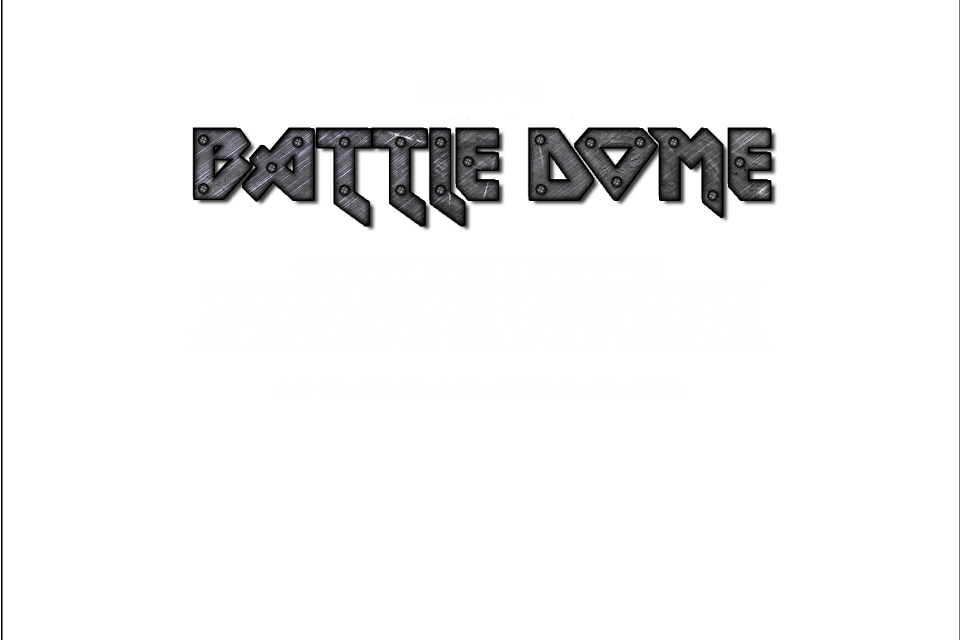
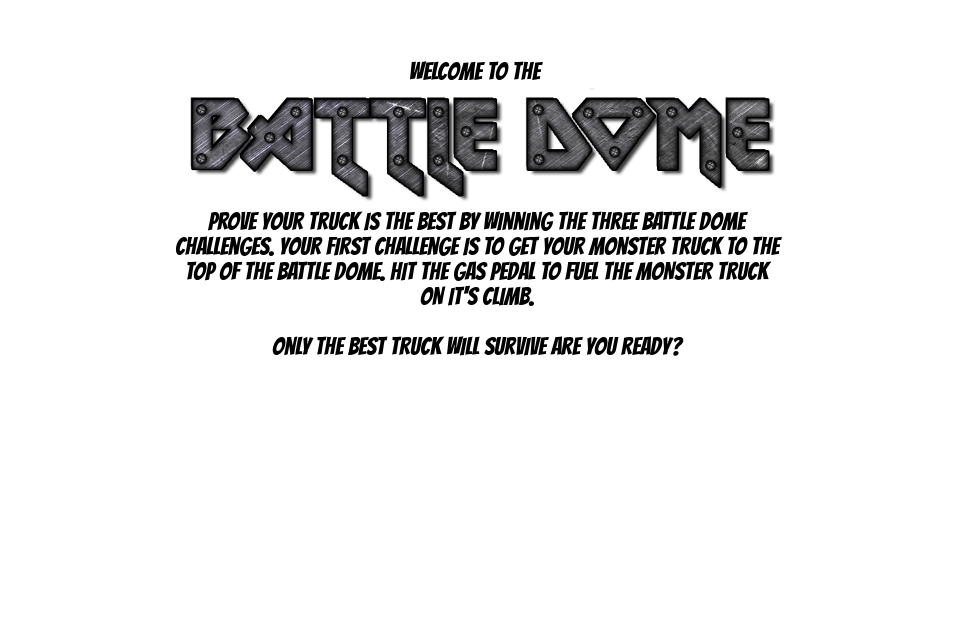
Connecting Commit
All levels connected and animations playing.

Changed region(s): [[0.1875, 0.0938, 0.8125, 0.5625]]

diff --git a/js/states/Game.js b/js/states/Game.js
@@ -9,30 +9,46 @@ MonsterTruck.GameState = {
         this.jumping = false;
         this.disable = false;
         //Adds horn sound
-        //MonsterTruck.audio.volume = 0.3;
+        MonsterTruck.audio.volume = 0.3;
         var sound = this.add.audio('horn');
         sound.play();
         sound.onStop.add(function()
         {
-            //MonsterTruck.audio.volume = 1;
+            MonsterTruck.audio.volume = 1;
         }, this);
         //Get variable values
         this.allData = JSON.parse(this.game.cache.getText('monsterData'));
-        this.startBattleOne();
+        if(MonsterTruck.Level === 0)
+        {
+            this.startBattleOne();
+        }
+        else if(MonsterTruck.Level === 1)
+        {
+            this.startBattleTwo();
+        }
+        else if(MonsterTruck.Level === 2)
+        {
+            this.startBattleThree();
+        }
+        else
+        {
+            this.state.start('End');
+        }
     },
     startBattleOne: function()
     {
+        this.battleArena = this.add.sprite(-1920, 0, 'battleArenaHorizontal');
         //Boolean to track whether the climb has begun or not
         this.start = true;
         //Hill to climb
         this.add.image(0, 0, 'hill');
         this.physics.startSystem(Phaser.Physics.ARCADE);
         //Truck to climb up
-        this.sprite = this.add.sprite(250, 420, 'player');
-        //this.sprite.animations.add('walk');
+        this.sprite = this.add.sprite(100, 550, 'playerRight');
+        this.sprite.animations.add('walk');
         
-        //this.sprite.animations.play('walk', 5, true);
-        this.sprite.scale.setTo(-0.3, 0.3);
+        this.sprite.animations.play('walk', 5, true);
+        this.sprite.scale.setTo(0.3, 0.3);
         
         this.physics.enable(this.sprite, Phaser.Physics.ARCADE);
 	    this.sprite.body.checkCollision.up = false;
@@ -65,11 +81,11 @@ MonsterTruck.GameState = {
             this.alertTween.resume();
             this.start = false;
             //Reverse velocity so truck 'falls downhill'
-            this.sprite.body.velocity.x=-242;
-            this.sprite.body.velocity.y=200;
+            this.sprite.body.velocity.x=-30.25;
+            this.sprite.body.velocity.y=25;
         }, this);
         //Alert to hit the gas
-        this.alert = this.add.sprite(700, 350, 'alertMain');
+        this.alert = this.add.sprite(700, 350, 'alertBattle');
         this.alert.scale.setTo(0.5, 0.5);
         this.alert.alpha=0;
         this.alertTween = this.add.tween(this.alert).to( { alpha: 1 }, 1000, "Linear", true, 0, -1);
@@ -84,13 +100,17 @@ MonsterTruck.GameState = {
         
         this.chain = this.add.sprite(320, 440, 'chain');            
         this.battlePlayer = this.add.sprite(50, 500, 'player');
-        this.battleEnemy = this.add.sprite(900, 500, 'enemy3');
+        this.battleEnemy = this.add.sprite(600, 500, 'enemyRight');
         this.battlePlayer.scale.setTo(0.5, 0.5);
-        this.battleEnemy.scale.setTo(-0.5, 0.5);
+        this.battleEnemy.scale.setTo(0.5, 0.5);
                     
         this.battlePlayer.anchor.setTo(0.1, 0.5);
         this.battleEnemy.anchor.setTo(0.1, 0.5);
         this.cord = new Phaser.Line(this.battlePlayer.x, this.battlePlayer.y, this.battleEnemy.x, this.battleEnemy.y);
+        this.battlePlayer.animations.add('walk');
+        this.battlePlayer.animations.play('walk', 5, true);
+        this.battleEnemy.animations.add('walk');   
+        this.battleEnemy.animations.play('walk', 5, true);
                         
         this.ins = this.add.sprite(0, 0, 'battle3Ins');
                     
@@ -123,17 +143,18 @@ MonsterTruck.GameState = {
         this.battleArena = this.add.sprite(0, 0, 'battleArenaJump');
         this.physics.enable(this.battleArena, Phaser.Physics.ARCADE);
                     
-        this.battlePlayer = this.add.sprite(100, 500, 'player');
+        this.battlePlayer = this.add.sprite(250, 500, 'playerRight');
         //this.battleEnemy = this.add.sprite(900, 250, 'enemy2');
-        this.battlePlayer.scale.setTo(-0.5, 0.5);
+        this.battlePlayer.scale.setTo(0.5, 0.5);
         //this.battleEnemy.scale.setTo(-0.5, 0.5);
                     
-        this.battlePlayer.anchor.setTo(0.9, 0.5);
-        //this.battleEnemy.anchor.setTo(0.1, 0.5);
+        this.battlePlayer.anchor.setTo(0.1, 0.5);
+        this.battlePlayer.animations.add('walk');
+        this.battlePlayer.animations.play('walk', 5, true);
                         
         this.ins = this.add.sprite(0, 0, 'battle2Ins');
                     
-        this.gas = this.add.button(460, 420, 'gas', function()
+        this.gas = this.add.button(760, 420, 'gas', function()
         {
             if(this.ins!=undefined)
             {
@@ -144,7 +165,7 @@ MonsterTruck.GameState = {
                 this.battleArena.body.velocity.x-=10;
         }, this);
         //Alert to hit the gas
-        this.alert = this.add.sprite(400, 420, 'alertBattle');
+        this.alert = this.add.sprite(700, 420, 'alertBattle');
         this.alert.scale.setTo(0.5, 0.5);
         this.alert.alpha=0;
         this.alertTween = this.add.tween(this.alert).to( { alpha: 1 }, 1000, "Linear", true, 0, -1);
@@ -156,54 +177,71 @@ MonsterTruck.GameState = {
     },
     update: function()
     {
-        //Checks that the truck has not hit the top or bottom of the hill and reacts accordingly if so
-        if(!this.start && this.sprite.y >= 420)
+        if(MonsterTruck.Level === 0)
         {
-            this.sprite.body.velocity.x=0;
-            this.sprite.body.velocity.y=0;
-            this.start = true;
+            //Checks that the truck has not hit the top or bottom of the hill and reacts accordingly if so
+            if(!this.start && this.sprite.y >= 420)
+            {
+                this.sprite.body.velocity.x=0;
+                this.sprite.body.velocity.y=0;
+                this.start = true;
+            }
+            if(this.sprite.x > 900)
+            {
+                MonsterTruck.Level++;
+                this.state.start('Game');
+            }
         }
-        if(this.sprite.x > 900)
+        else if(MonsterTruck.Level === 1)
         {
-            console.log('end');
-        }
-        /*if(this.battleArena.x >= -50)
+            if(this.battleArena.x >= -50)
             {
                 console.log('player win');
-                this.over = true;
+                MonsterTruck.Level++;
+                this.state.start('Game');
             }
             else if(this.battleArena.x <=-3750)
             {
                 console.log('player lose');
+                MonsterTruck.Level++;
+                this.state.start('Game');
+            }
+        }
+        else if(MonsterTruck.Level === 2)
+        {
+            if(this.battleArena.x<-900 && this.battleArena.x >-2050 && !this.jumping)
+            {
+                this.disable = true;
+                this.jumping = true;
+                var rot = this.add.tween(this.battlePlayer).to({angle: -30}, (0.001 * this.battleArena.body.velocity.x), "Linear", true);
+                rot.onComplete.add(function()
+                {
+                    this.add.tween(this.battlePlayer).to({x: 300, y: 250}, (3 * this.battleArena.body.velocity.x), "Linear", true);
+                }, this);
+            }
+            if(this.battleArena.x < -3500 && this.over)
+            {
+                this.over = false;
+                this.battleArena.body.velocity.x=0;
+                var rotate = this.add.tween(this.battlePlayer).to({angle: 20}, (2 * this.battleArena.body.velocity.x), "Linear", true);
+                rotate.onComplete.add(function()
+                {
+                    this.add.tween(this.battlePlayer).to({angle: 0}, (0.2 * this.battleArena.body.velocity.x), "Linear", true);
+                }, this);
+                var last = this.add.tween(this.battlePlayer).to({x: 1000, y: 500}, (2.8 * this.battleArena.body.velocity.x), "Linear", true);
+                last.onComplete.add(function()
+                {
+                    MonsterTruck.Level++;
+                    this.state.start('Game');
+                }, this);
+            }
+            if(this.battleArena.x<-2050 && this.jumping)
+            {
+                this.jumping = false;
                 this.over = true;
-            }*/
-        /*if(this.battleArena.x<-900 && this.battleArena.x >-2050 && !this.jumping)
-        {
-            this.disable = true;
-            this.jumping = true;
-            var rot = this.add.tween(this.battlePlayer).to({angle: -30}, (0.001 * this.battleArena.body.velocity.x), "Linear", true);
-            rot.onComplete.add(function()
-            {
-                this.add.tween(this.battlePlayer).to({x: 300, y: 250}, (3 * this.battleArena.body.velocity.x), "Linear", true);
-            }, this);
+                this.add.tween(this.battlePlayer).to({angle: -10}, (1 * this.battleArena.body.velocity.x), "Linear", true);
+            }
         }
-        if(this.battleArena.x < -3500 && this.over)
-        {
-            this.over = false;
-            this.battleArena.body.velocity.x=0;
-            var rotate = this.add.tween(this.battlePlayer).to({angle: 20}, (2 * this.battleArena.body.velocity.x), "Linear", true);
-            rotate.onComplete.add(function()
-            {
-                this.add.tween(this.battlePlayer).to({angle: 0}, (0.2 * this.battleArena.body.velocity.x), "Linear", true);
-            }, this);
-            this.add.tween(this.battlePlayer).to({x: 1000, y: 500}, (2.8 * this.battleArena.body.velocity.x), "Linear", true);
-        }
-        if(this.battleArena.x<-2050 && this.jumping)
-        {
-            this.jumping = false;
-            this.over = true;
-            this.add.tween(this.battlePlayer).to({angle: -10}, (1 * this.battleArena.body.velocity.x), "Linear", true);
-        }*/
     }
 };
 /*Copyright (C) Wayside Co. - All Rights Reserved

diff --git a/js/states/Preload.js b/js/states/Preload.js
@@ -21,12 +21,13 @@ MonsterTruck.PreloadState = {
         this.load.image('chain', 'assets/images/chain.png');
         
         
-        this.load.spritesheet('player', 'assets/images/monsterTruckSpritesheet.png', 700, 420, 8);
+        this.load.spritesheet('player', 'assets/images/monsterTruckSpritesheetred.png', 700, 420, 8);
+        this.load.spritesheet('playerLeft', 'assets/images/monsterTruckSpritesheetred.png', 700, 420, 8);
+        this.load.spritesheet('playerRight', 'assets/images/monsterTruckSpritesheetredright.png', 700, 420, 8);
         this.load.image('battleTruck', 'assets/images/battle-trigger-truck.png');
         
-        this.load.spritesheet('enemy1', 'assets/images/monsterTruckSpritesheetblue.png', 700, 420, 8);
-        this.load.spritesheet('enemy2', 'assets/images/monsterTruckSpritesheetpurple.png', 700, 420, 8);
-        this.load.spritesheet('enemy3', 'assets/images/monsterTruckSpritesheetred.png', 700, 420, 8);
+        this.load.spritesheet('enemy', 'assets/images/monsterTruckSpritesheetpurple.png', 700, 420, 8);
+        this.load.spritesheet('enemyRight', 'assets/images/monsterTruckSpritesheetpurpleright.png', 700, 420, 8);
         
         this.load.image('battleArena', 'assets/images/battleArena.png');
         this.load.image('battleArenaHorizontal', 'assets/images/battleArenaHorizontal.png');
@@ -55,7 +56,7 @@ MonsterTruck.PreloadState = {
     },
     create: function ()
     {
-        this.state.start('Game');
+        this.state.start('Story');
     }
 };
 /*Copyright (C) Wayside Co. - All Rights Reserved

diff --git a/js/states/Story.js b/js/states/Story.js
@@ -25,10 +25,10 @@ MonsterTruck.StoryState = {
         g2.play(true);
         g2.addToWorld(960, 0, 0.9, 0.1, 1.3, 1.3);
         
-        /*var g3 = this.add.video('gif4');
+        var g3 = this.add.video('gif4');
         g3.play(true);
         g3.addToWorld(0, 640, 0.1, 0.9, 0.8, 0.8);
-        */
+
         var g4 = this.add.video('gif1');
         g4.play(true);
         g4.addToWorld(960, 640, 0.9, 0.9);
@@ -43,7 +43,7 @@ MonsterTruck.StoryState = {
         //Enter the monster dome button
         this.button = this.add.button(100, 350, 'mainButton', function()
         {
-            MonsterTruck.Climb=true;
+            MonsterTruck.Level=0;
             this.state.start('Game');
         }, this);
     }
